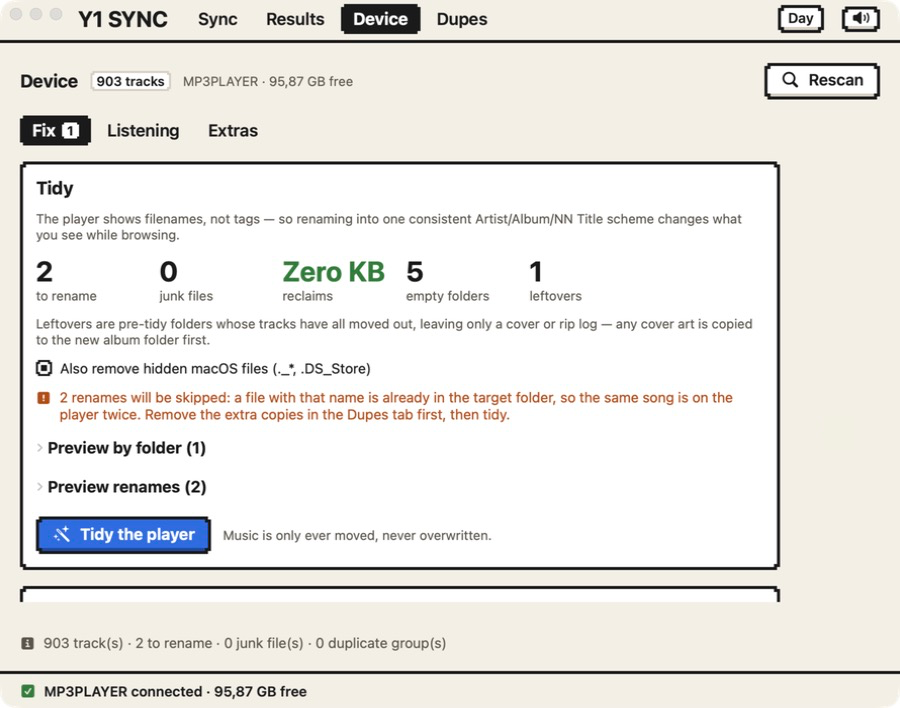
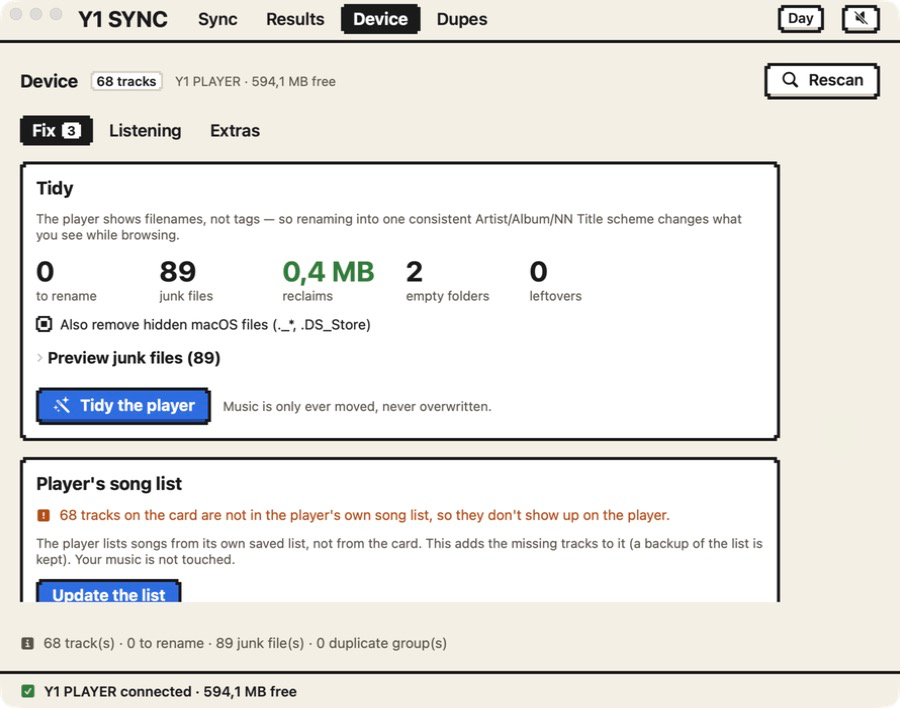
README: neutral demo screenshots

diff --git a/README.md b/README.md
@@ -36,10 +36,10 @@ library to the player and cleans up what is already there.
     <td align="center"><sub><b>Listening</b> — what you really play, from the player's own log</sub></td>
   </tr>
   <tr>
-    <td colspan="2"><img src="assets/screenshots/device-fix.png" alt="Device tab: tidy, with renames that would be refused flagged in advance" width="50%"></td>
+    <td colspan="2"><img src="assets/screenshots/device-fix.png" alt="Device tab: tidy the card and keep the player's song list current" width="50%"></td>
   </tr>
   <tr>
-    <td colspan="2" align="center"><sub><b>Device → Fix</b> — tidy the card; problems are flagged before you press the button</sub></td>
+    <td colspan="2" align="center"><sub><b>Device → Fix</b> — tidy the card, clear junk, keep the player's own song list in step</sub></td>
   </tr>
 </table>
 
